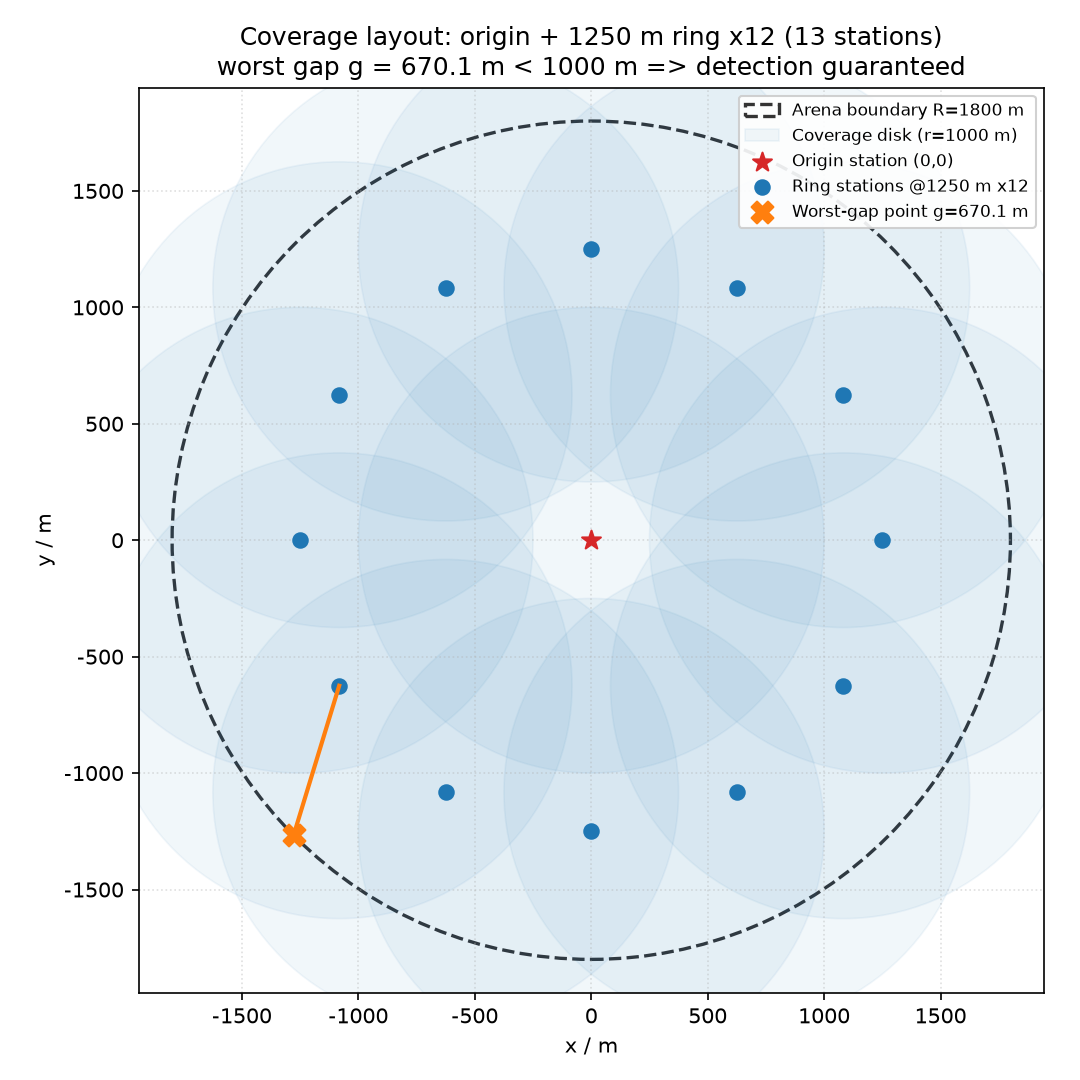
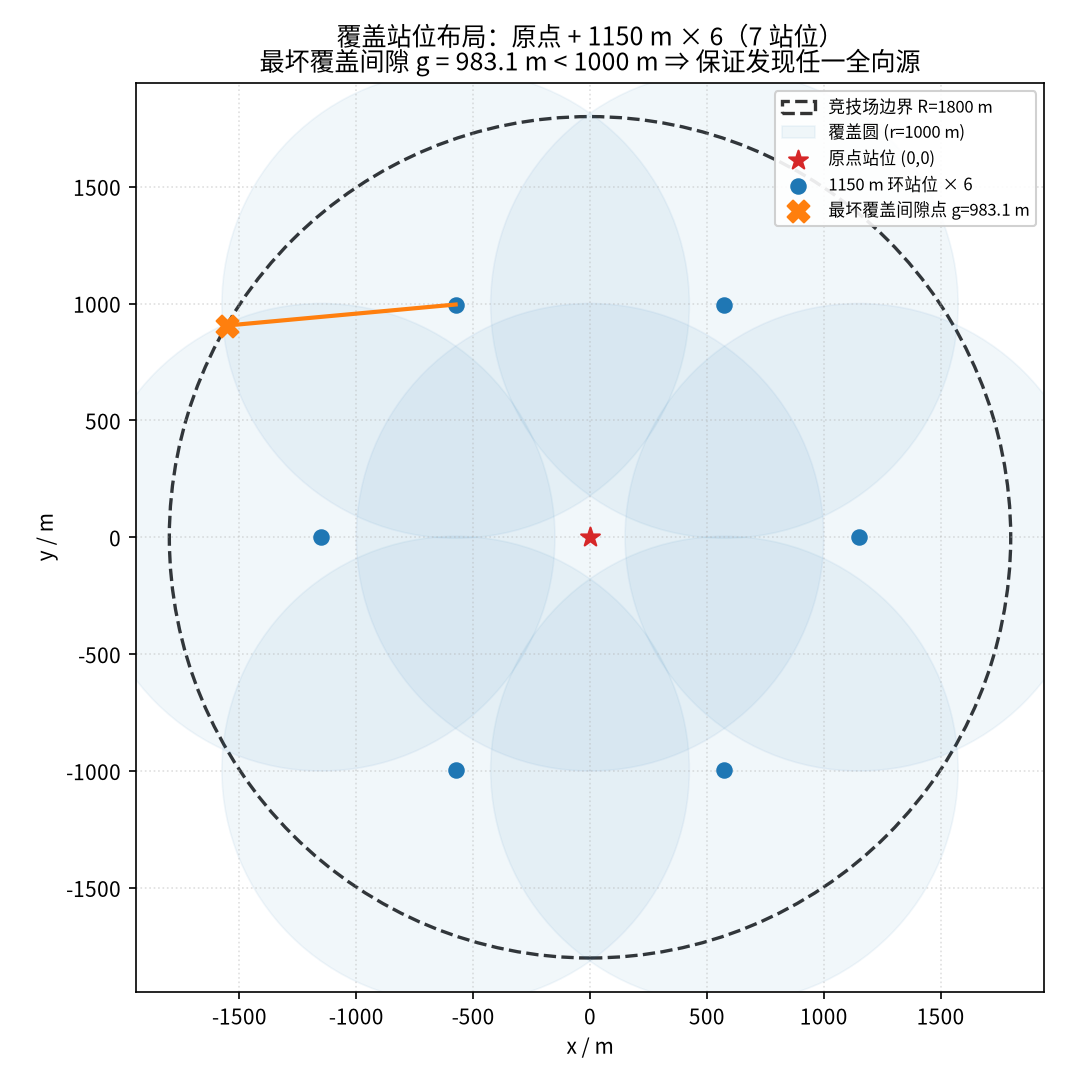
fix(B): 配图重生成为交付布局, 加图-策略一致性断言
图 6 / 图 7 自 9-11 08:38 生成后未再更新，画的是 1250 m x 12（13 站位）,
那是论文 4.2/4.3 节里被否决的初始基线。布局此后改过两轮，图却停在原处，
而图 6 紧跟在「1150x6 在三档均为最优」的结论段之后，图注只写「覆盖环站位布局」。
评审看图会认为交付布局是 13 站位。

改动：
- b_coverage_figures.py 的 _chosen_stations 改为原点 + 1150 m x 6，
  环参数提为模块常量 RING_RADIUS_M / RING_STATIONS，标题与图例同步；
  条形图把交付布局按实算补为一条并高亮，不再硬指 JSON 里的旧候选名。
- 两张图已重生成（实算最坏间隙 983.12 m < 1000 m 门限）。
- 新增 src/test_figures_match_strategy.py：断言图脚本环参数 == Q3FastStrategy.ring_radius，
  并断言该布局仍满足 gap < RECEPTION_MIN_M。把半径改回 1250 时断言失败（已阳性对照）。
- 论文图 6 / 图 7 图注写明交付布局与站位数；图 7 注明其中交付布局一条为实算补入，
  其余取自早期 JSON，故与 4.2 节表内 700x700 网格估计值有数米差异（987.0 vs 983.12）。

顺带核实：图脚本已设 font.sans-serif（Noto Sans CJK SC 在首位）并带 _t() 降级，
本机检测到 CJK 字体，中文标签不会渲染成方框。我先前担心的字体缺失不成立。

提交物哈希基线已随新 PDF 重新冻结。

diff --git a/src/b_coverage_figures.py b/src/b_coverage_figures.py
@@ -2,7 +2,7 @@
 
 由 ``coverage_design`` 的几何内核生成论文用图，写入 ``figures/``：
 
-* ``figures/b_coverage_stations.png`` —— 主图：原点 + 1250 m × 12（13 站位）
+* ``figures/b_coverage_stations.png`` —— 主图：原点 + 1150 m × 6（7 站位，交付布局）
   布局散点、每站 1000 m 接收下限覆盖圆、竞技场边界，并高亮最坏覆盖间隙点。
 * ``figures/b_coverage_worstgap.png`` —— 辅图：各候选布局最坏覆盖间隙条形图，
   标注 1000 m 保证发现下限线。
@@ -62,9 +62,18 @@ FIG_DIR = Path("figures")
 RESULTS = Path("results/b_coverage_design.json")
 
 
+RING_RADIUS_M = 1150.0
+RING_STATIONS = 6
+
+
 def _chosen_stations() -> list[tuple[float, float]]:
-    """论文选定布局：原点 + 1250 m 环 12 站位（13 站位）。"""
-    return [(0.0, 0.0)] + ring(1250.0, 12)
+    """交付布局：原点 + 1150 m 环 6 站位，共 7 站，对应 Q3FastStrategy.ring_radius。
+
+    早期这里画的是 1250 m x 12，那是论文 4.2/4.3 节里被否决的初始基线。
+    布局此后改过两轮而图未重生成，会让读者以为交付用的是 13 站位。
+    改此处务必同时重跑本模块并核对论文图注。
+    """
+    return [(0.0, 0.0)] + ring(RING_RADIUS_M, RING_STATIONS)
 
 
 def plot_coverage_stations(out: Path) -> Path:
@@ -93,7 +102,8 @@ def plot_coverage_stations(out: Path) -> Path:
                label=_t("原点站位 (0,0)", "Origin station (0,0)"))
     ax.scatter([p[0] for p in ring_pts], [p[1] for p in ring_pts],
                c="#1f77b4", s=48, marker="o", zorder=5,
-               label=_t("1250 m 环站位 × 12", "Ring stations @1250 m x12"))
+               label=_t(f"{RING_RADIUS_M:.0f} m 环站位 × {RING_STATIONS}",
+                        f"Ring stations @{RING_RADIUS_M:.0f} m x{RING_STATIONS}"))
 
     # 最坏覆盖间隙点及其到最近站位的连线
     wx, wy = argmax
@@ -110,9 +120,9 @@ def plot_coverage_stations(out: Path) -> Path:
     ax.set_xlabel("x / m")
     ax.set_ylabel("y / m")
     ax.set_title(_t(
-        "覆盖站位布局：原点 + 1250 m × 12（13 站位）\n"
+        f"覆盖站位布局：原点 + {RING_RADIUS_M:.0f} m × {RING_STATIONS}（{RING_STATIONS+1} 站位）\n"
         f"最坏覆盖间隙 g = {gap:.1f} m < 1000 m ⇒ 保证发现任一全向源",
-        "Coverage layout: origin + 1250 m ring x12 (13 stations)\n"
+        f"Coverage layout: origin + {RING_RADIUS_M:.0f} m ring x{RING_STATIONS} ({RING_STATIONS+1} stations)\n"
         f"worst gap g = {gap:.1f} m < 1000 m => detection guaranteed"))
     ax.legend(loc="upper right", fontsize=8, framealpha=0.9)
     ax.grid(True, ls=":", alpha=0.4)
@@ -131,7 +141,18 @@ def plot_worst_gap_bars(out: Path) -> Path:
             f"{RESULTS} 不存在，请先运行 `python -m src.b_sim.coverage_design`。"
         )
     payload = json.loads(RESULTS.read_text(encoding="utf-8"))
-    rows = payload["coverage"]
+    rows = list(payload["coverage"])
+    # JSON 是早期候选扫描的产物，不含交付布局；实算补一条，否则图里高亮无处落脚。
+    delivered = f"原点+{RING_RADIUS_M:.0f}x{RING_STATIONS}"
+    if not any(r["layout"] == delivered for r in rows):
+        _st = _chosen_stations()
+        _gap, _ = worst_coverage_gap(_st)
+        rows.append({
+            "layout": delivered,
+            "stations": len(_st),
+            "worst_gap_m": _gap,
+            "guarantees_detection": _gap < RECEPTION_MIN_M,
+        })
     # 布局名 ASCII 化，避免无 CJK 字体时出现缺字方块（数值不变）。
     def _ascii_layout(name: str) -> str:
         return name.replace("仅原点", "origin-only").replace("原点", "origin")
@@ -139,7 +160,7 @@ def plot_worst_gap_bars(out: Path) -> Path:
               f"({r['stations']})" for r in rows]
     gaps = [r["worst_gap_m"] for r in rows]
     colors = ["#2ca02c" if r["guarantees_detection"] else "#d62728" for r in rows]
-    chosen = "原点+1250x12"
+    chosen = delivered
 
     fig, ax = plt.subplots(figsize=(11, 5.2))
     bars = ax.bar(range(len(rows)), gaps, color=colors, alpha=0.85)

diff --git a/src/test_figures_match_strategy.py b/src/test_figures_match_strategy.py
@@ -1,0 +1,36 @@
+"""配图与生产策略参数的一致性回归。
+
+图 6 / 图 7 曾长期画着 1250 m x 12 的初始基线：布局改过两轮而图未重生成，
+论文正文说交付是 1150 x 6，图里却是 13 站位。评审看图会得出错误结论。
+这里把「图脚本的环参数 == 策略类的环参数」钉成断言。
+"""
+from __future__ import annotations
+
+import matplotlib
+
+matplotlib.use("Agg")
+
+from src.b_coverage_figures import (  # noqa: E402
+    RING_RADIUS_M,
+    RING_STATIONS,
+    _chosen_stations,
+)
+from src.b_sim.arena import RECEPTION_MIN_M  # noqa: E402
+from src.b_sim.coverage_design import worst_coverage_gap  # noqa: E402
+from src.b_sim.q3_fast import Q3FastStrategy  # noqa: E402
+
+
+def test_figure_ring_radius_matches_production_strategy():
+    assert RING_RADIUS_M == Q3FastStrategy.ring_radius, (
+        "配图环半径与 Q3FastStrategy.ring_radius 不一致，"
+        "图会展示非交付布局；改策略后请重跑 python -m src.b_coverage_figures"
+    )
+
+
+def test_figure_layout_still_guarantees_detection():
+    stations = _chosen_stations()
+    assert len(stations) == RING_STATIONS + 1
+    gap, _ = worst_coverage_gap(stations)
+    assert gap < RECEPTION_MIN_M, (
+        f"最坏覆盖间隙 {gap:.2f} m 已不低于接收半径下限 {RECEPTION_MIN_M} m"
+    )

diff --git a/paper/main.md b/paper/main.md
@@ -228,11 +228,11 @@ $R=1150$、$n=6$ 是该族中站位最少而仍满足充分性的配置，最坏
 
 ![覆盖站位布局](../figures/b_coverage_stations.png)
 
-**图 6** 覆盖环站位布局（原点加内环）。
+**图 6** 交付布局的覆盖站位：原点加 $1150$ m 环 $6$ 站位，共 $7$ 站。图中标出最坏覆盖间隙点及其到最近站位的距离，该距离须小于接收半径下限 $1000$ m。
 
 ![最坏覆盖间隙](../figures/b_coverage_worstgap.png)
 
-**图 7** 最坏覆盖间隙的位置与数值。判据是该间隙必须小于接收半径下限 1000 m，且需留足余量（见 7.2 节对 $1150\times6$ 仅留 13 m 的讨论）。
+**图 7** 各候选布局的最坏覆盖间隙对比，黑框为交付布局。判据是该间隙必须小于接收半径下限 1000 m，且需留足余量（见 7.2 节对 $1150\times6$ 余量的讨论）。图中交付布局一条由脚本实算补入，其余取自早期候选扫描的 JSON，故与 4.2 节表内的网格估计值有数米差异。
 
 ### 4.4 定向源的方位采样
 
